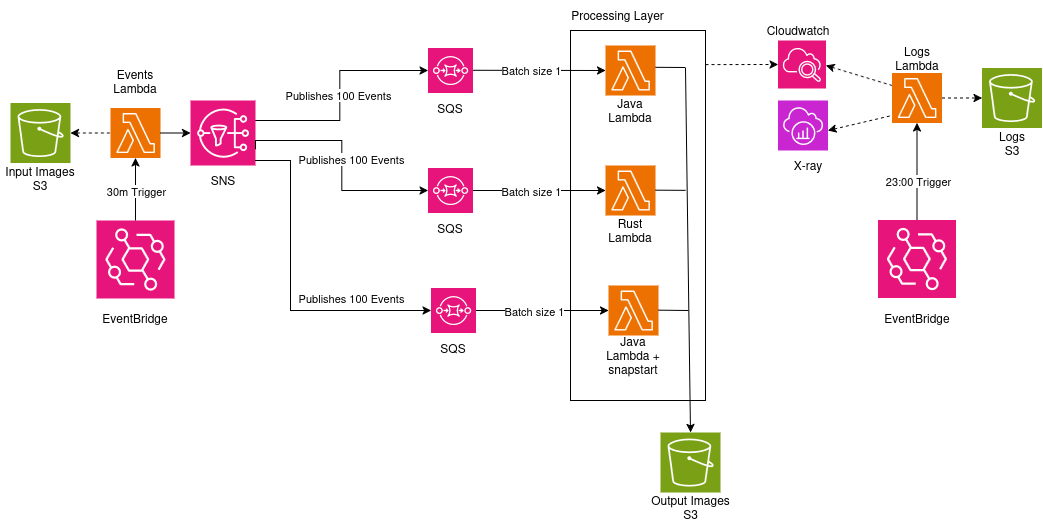
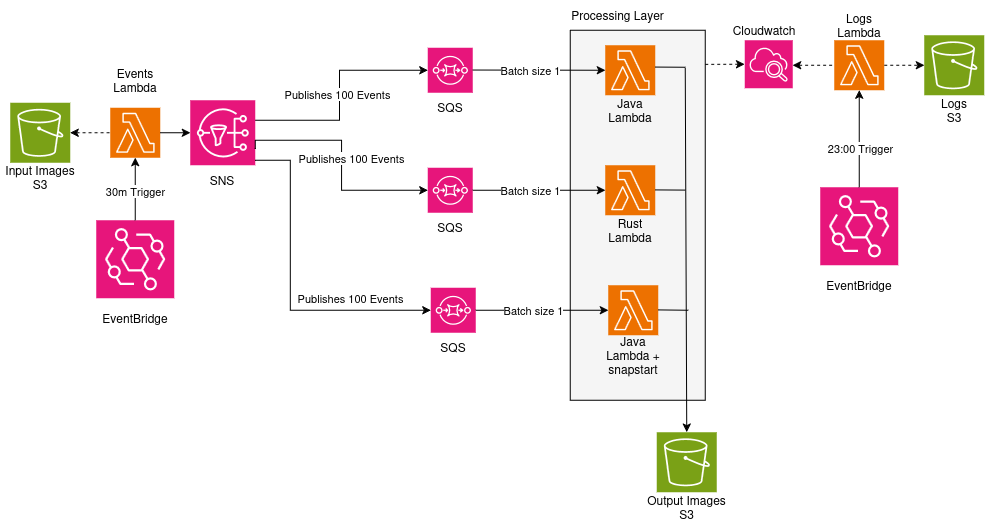
Updating structure, format and documents

Changed region(s): [[0.0, 0.0, 1.0, 1.0], [0.0914, 0.1226, 0.1523, 0.1839]]

diff --git a/scripts/lambdas/dashboard.py b/scripts/lambdas/dashboard.py
@@ -1,6 +1,6 @@
 """Validate an analyzer daily report and render a set of benchmark PNGs.
 
-Run from anywhere: python scripts/dashboard.py [--report reports/FILE.json]
+Run from anywhere: python scripts/lambdas/dashboard.py [--report reports/FILE.json]
 Requires matplotlib (pip install matplotlib). No AWS access is needed.
 """
 
@@ -17,7 +17,7 @@ import matplotlib.pyplot as plt
 from matplotlib.ticker import StrMethodFormatter
 
 
-ROOT = Path(__file__).resolve().parents[1]
+ROOT = Path(__file__).resolve().parents[2]
 QUANTILES = ("min", "avg", "p50", "p95", "p99", "max")
 STAGES = ("client_ms", "get_ms", "process_ms", "put_ms")
 NAMES = {

diff --git a/deploy.py b/deploy.py
@@ -12,7 +12,7 @@ def run(cmd, cwd):
         sys.exit(result.returncode)
 
 print("==> Building Python Lambda zips...")
-scripts = BASE / "scripts"
+scripts = BASE / "scripts/lambdas"
 run("zip -j producer.zip producer.py", cwd=scripts)
 run("zip -j analyzer.zip analyzer.py", cwd=scripts)
 

diff --git a/scripts/helpers/test_dashboard.py b/scripts/helpers/test_dashboard.py
@@ -6,7 +6,7 @@ import tempfile
 import unittest
 from pathlib import Path
 
-from scripts.dashboard import ROOT, render, validate_report
+from scripts.lambdas.dashboard import ROOT, render, validate_report
 
 
 class DashboardTests(unittest.TestCase):

diff --git a/README.md b/README.md
@@ -23,14 +23,12 @@ Rust had approximately **5.3× lower average startup-inclusive Lambda latency** 
 
 ![SNS fanout to three SQS queues and Lambda image processors](images/architecture_diagram.png)
 
-> **About X-Ray in the diagram:** The architecture includes X-Ray because tracing is configured for the processors, but it was **not used for the results shown here**. The analyzer found **zero matching X-Ray traces** for all three functions in this report's time window, so there were no trace-based phase timings or error rates to compare. The dashboards instead use CloudWatch log metrics. The report does not establish why no traces matched; zero matching traces should not be read as zero errors or as proof that tracing was disabled.
-
 1. The producer lists the **100 objects** in the input S3 bucket and publishes each key to an SNS topic. EventBridge schedules this every 30 minutes (UTC); the producer also rejects an input bucket that does not contain exactly 100 objects.
 2. SNS fans out to **three separate SQS queues**, one for each configuration. SQS event source mappings use batch size `1` and maximum concurrency `100` per mapping. Queue delivery and retries are asynchronous; messages are *not* guaranteed to begin processing at the same millisecond.
 3. Each handler downloads an image, decodes it, resizes it to **70% of the original width and height** (e.g. 800×600 → 560×420) with bilinear-family interpolation, JPEG-encodes at **quality 75**, and uploads to its own output key prefix.
 4. The analyzer groups CloudWatch log records by function and **published version**, counts observed successful writes, and aggregates log timings. The results and charts here use those log-derived metrics.
 
-All three Lambda functions have **512 MB allocated memory** and a 30-second timeout in Terraform. Java and Rust use `$LATEST`; the SnapStart function publishes a version and its SQS mapping targets the **qualified version ARN** (version `7` in this report). Ordinary Java does not enable SnapStart. See [Terraform compute](terraform/compute.tf), [event sources](terraform/monitoring.tf), [fanout](terraform/messaging.tf), and the [analyzer](scripts/analyzer.py).
+All three Lambda functions have **512 MB allocated memory** and a 30-second timeout in Terraform. Java and Rust use `$LATEST`; the SnapStart function publishes a version and its SQS mapping targets the **qualified version ARN** (version `7` in this report). Ordinary Java does not enable SnapStart. See [Terraform compute](terraform/compute.tf), [event sources](terraform/monitoring.tf), [fanout](terraform/messaging.tf), and the [analyzer](scripts/lambdas/analyzer.py).
 
 ### Same intent, not identical execution
 
@@ -40,6 +38,8 @@ The report confirms **100 distinct processed keys per configuration**, but does 
 
 <p align="center">
   <img src="images/original_images/image_10.jpg" width="23%" alt="Original image 10">
+  <p align="center"><em>Original</em></p>
+  <p align="center">
   <img src="images/processed_images/Java_lambda_image_10.jpg" width="23%" alt="Java 21 output for image 10">
   <img src="images/processed_images/Rust_lambda_image_10.jpg" width="23%" alt="Rust output for image 10">
   <img src="images/processed_images/Java_snapstart_lambda_image_10.jpg" width="23%" alt="Java 21 SnapStart output for image 10">
@@ -48,7 +48,7 @@ The report confirms **100 distinct processed keys per configuration**, but does 
 
 ## Dashboard gallery and measured results
 
-Every dashboard below is generated from the [same checked-in report](reports/20260929T082758Z_daily_report.json). The charts show **aggregates**, not time series or raw latency distributions. The [dashboard script](scripts/dashboard.py) checks report structure, numeric ranges and count consistency before rendering; it cannot verify information the report does not contain.
+Every dashboard below is generated from the [same checked-in report](reports/20260929T082758Z_daily_report.json). The charts show **aggregates**, not time series or raw latency distributions. The [dashboard script](scripts/lambdas/dashboard.py) checks report structure, numeric ranges and count consistency before rendering; it cannot verify information the report does not contain.
 
 ### Latency: duration vs. startup-inclusive time
 
@@ -119,19 +119,45 @@ The logged **cold S3 get** stage dominates the Java cold-path stage averages. `c
 
 ## Repository layout
 
+This tree focuses on the files needed to understand and reproduce the benchmark. Generated build artifacts and individual images are grouped rather than listed one by one.
+
 ```text
-terraform/                   AWS fanout, queues, Lambdas and schedules
-src/java_processor/          Java 21 handler (no SnapStart)
-src/java_processor_snapstart/ Java 21 handler with SnapStart restore hook
-src/rust_processor/          Rust handler
-scripts/producer.py          Publishes input keys to SNS
-scripts/analyzer.py          Generates version-split daily JSON reports
-scripts/dashboard.py         Validates reports and renders six PNGs
-reports/                     Example analyzer output
-images/                      Architecture, dashboards and image examples
+runtime_benchmark_lambda/
+├── README.md                         This guide
+├── deploy.py                         Build packages and plan Terraform
+├── terraform/                        AWS infrastructure
+│   ├── provider.tf                   Region and provider
+│   ├── compute.tf                    Three processors + producer + analyzer
+│   ├── messaging.tf                  SNS fanout, SQS queues and DLQs
+│   ├── monitoring.tf                 EventBridge schedules and SQS triggers
+│   ├── iam.tf                        Execution roles and permissions
+│   └── s3.tf                         Input, output and report buckets
+├── src/                              Image processors
+│   ├── java_processor/               Java 21 (Maven)
+│   ├── java_processor_snapstart/     Java 21 + SnapStart (Maven)
+│   └── rust_processor/               Rust (Cargo + Makefile)
+├── scripts/
+│   ├── lambdas/
+│   │   ├── producer.py                Publish input image keys to SNS
+│   │   ├── analyzer.py                Produce JSON metrics from logs
+│   │   └── dashboard.py               Validate report and create six PNGs
+│   └── helpers/
+│       ├── fetch_images.py            Download seeded input images
+│       ├── test_analyzer.py           Analyzer tests
+│       └── test_dashboard.py          Dashboard tests
+├── reports/
+│   └── 20260929T082758Z_daily_report.json  Benchmark data in this guide
+└── images/
+    ├── architecture_diagram.png      SNS → SQS → Lambda flow
+    ├── benchmark_*.png               Six report dashboards
+    ├── GALLERY.md                    Output comparisons
+    ├── original_images/              Input JPEGs
+    └── processed_images/             Three processors' outputs
 ```
 
-The Java handlers use Maven and a managed runtime; Rust uses Cargo and `provided.al2023`. See the [ordinary Java](src/java_processor/src/main/java/java_processor/Main.java), [SnapStart Java](src/java_processor_snapstart/src/main/java/java_processor_snapstart/Main.java), and [Rust](src/rust_processor/src/main.rs) implementations for actual handler logic and dependency choices rather than simplified pseudocode.
+**Quick links:** [infrastructure](terraform/) · [ordinary Java handler](src/java_processor/src/main/java/java_processor/Main.java) · [SnapStart handler](src/java_processor_snapstart/src/main/java/java_processor_snapstart/Main.java) · [Rust handler](src/rust_processor/src/main.rs) · [producer](scripts/lambdas/producer.py) · [analyzer](scripts/lambdas/analyzer.py) · [dashboard](scripts/lambdas/dashboard.py) · [input generator](scripts/helpers/fetch_images.py) · [report](reports/20260929T082758Z_daily_report.json) · [image gallery](images/GALLERY.md).
+
+The Java handlers use Maven and a managed runtime; Rust uses Cargo and `provided.al2023`. Open their source links above for the actual handler logic and dependencies.
 
 ## Reproduce the charts
 
@@ -139,8 +165,8 @@ You can render the checked-in report **without AWS credentials**:
 
 ```bash
 python -m pip install matplotlib
-python scripts/dashboard.py --report reports/20260929T082758Z_daily_report.json
-python -m unittest scripts.test_dashboard
+python scripts/lambdas/dashboard.py --report reports/20260929T082758Z_daily_report.json
+python -m unittest scripts.helpers.test_dashboard
 ```
 
 The command validates the report and writes `images/benchmark_{overview,latency,startup,stages,workload,resources}.png`. Omit `--report` to use the latest filename matching `reports/*_daily_report.json`, or use `--output-dir` to save PNGs elsewhere. Missing Rust stage timings remain unavailable instead of being silently plotted as zero.
@@ -153,10 +179,10 @@ The command validates the report and writes `images/benchmark_{overview,latency,
 
    ```bash
    python -m pip install aiohttp
-   python scripts/fetch_images.py
+   python scripts/helpers/fetch_images.py
    ```
 
-2. Build the three processors and supporting Lambdas with `./deploy.sh` (Linux/macOS) or `python deploy.py`. Both prompt for bucket names and run **`terraform plan` only**. Review the plan and run `terraform apply` yourself in `terraform/` with the same bucket variables. The input bucket must contain exactly 100 objects before running the producer; for example:
+2. Build the three processors and supporting Lambdas with `python deploy.py`. It prompts for bucket names and runs **`terraform plan` only**. Review the plan and run `terraform apply` yourself in `terraform/` with the same bucket variables. The input bucket must contain exactly 100 objects before running the producer; for example:
 
    ```bash
    aws s3 sync images/original_images/ s3://<INPUT_BUCKET>/ --region us-east-1
@@ -170,7 +196,7 @@ The command validates the report and writes `images/benchmark_{overview,latency,
      --cli-binary-format raw-in-base64-out --region us-east-1 response.json
    aws s3 sync s3://<LOGS_BUCKET>/reports/ reports/ \
      --exclude '*' --include '*_daily_report.json' --region us-east-1
-   python scripts/dashboard.py
+   python scripts/lambdas/dashboard.py
    ```
 
    Replace the example timestamps with **your own** completed test window. Verify the same successful S3 key set for all three functions independently before treating the runtime comparison as controlled.
